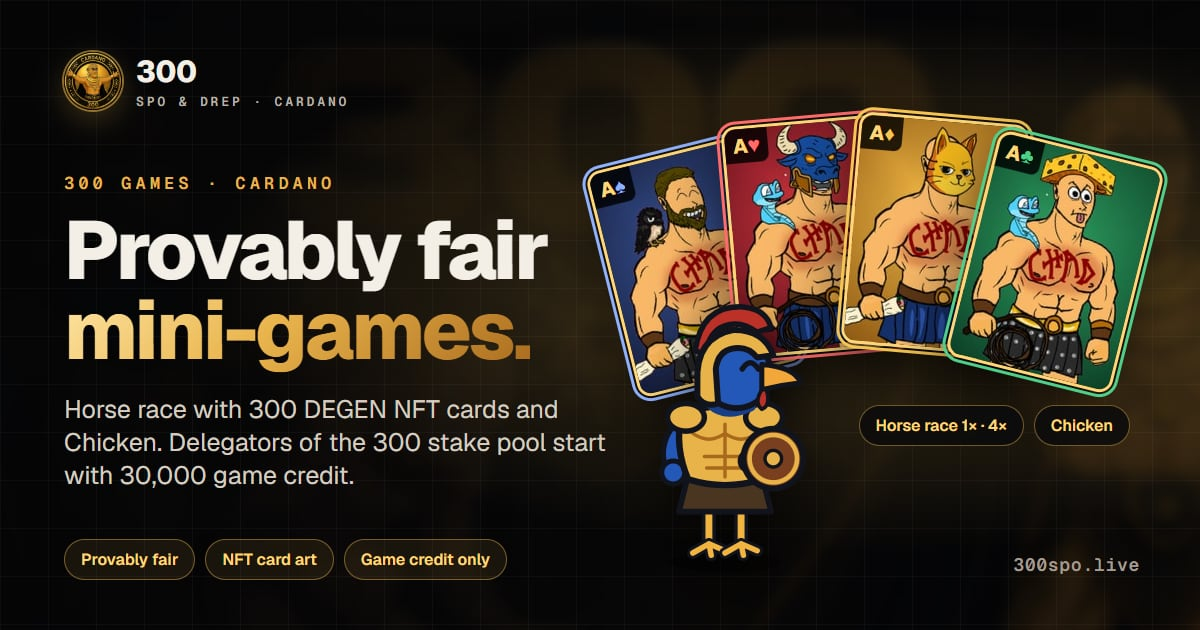
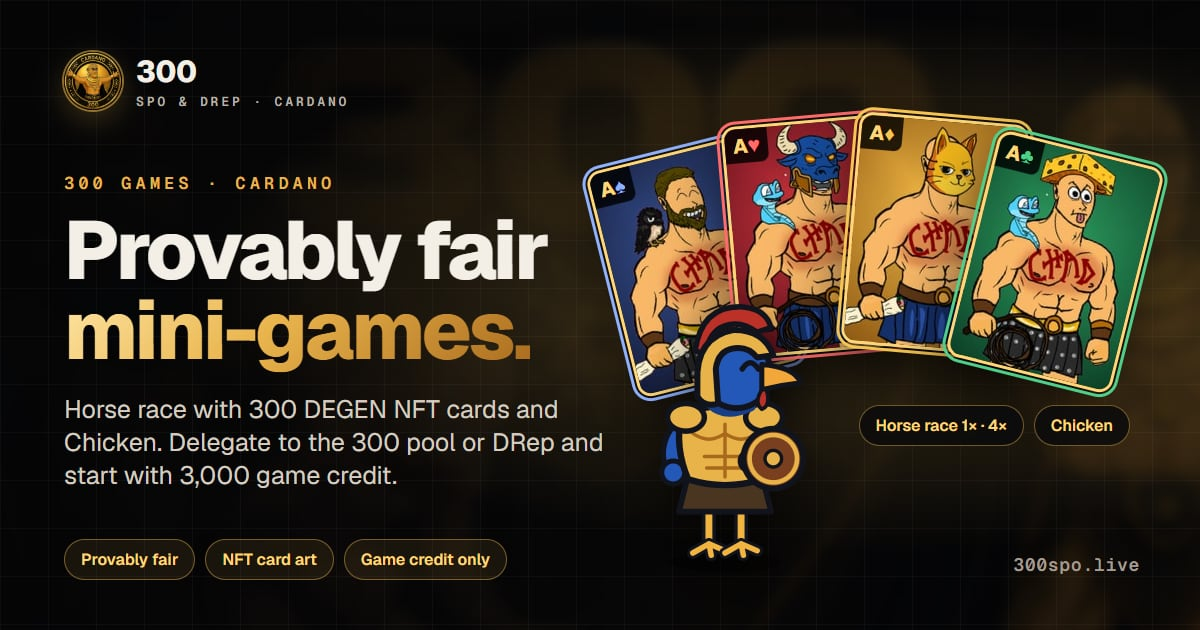
Starting credit 3,000 for pool or DRep delegators, no minimum, claim log (#31)
- 3,000 300 for every wallet delegated to the 300 stake pool and/or the
  300 DRep, without an ADA minimum (migration 20260930150000, applied).
  Wallets that got more before keep it.
- Every claim is logged with its outcome (credited, already has it, not
  delegated, below minimum); the admin page lists the last 30, so it is
  visible why a wallet got nothing.
- Landing page: a wallet that is not delegated yet is asked again after it
  delegates from the page (every 20 s for up to 10 minutes); only a settled
  answer is remembered for the session.
- Texts, search description and preview images name 3,000 and the DRep.

Changed region(s): [[0.0308, 0.6635, 0.5242, 0.7841]]

diff --git a/components/welcome-credit.tsx b/components/welcome-credit.tsx
@@ -1,19 +1,25 @@
 "use client";
 
 import { AnimatePresence, motion } from "motion/react";
-import { useEffect, useRef, useState } from "react";
+import { useCallback, useEffect, useRef, useState } from "react";
 import { formatTokenAmount } from "@/lib/format";
 import { LINKS } from "@/lib/site";
 import { WinBurst } from "./game/arena-effects";
 import { ArrowRight, Close } from "./icons";
+import { DELEGATED_EVENT } from "./wallet/delegation";
 import { useWallet } from "./wallet/wallet-provider";
 
 type Claim = { status: "granted"; amount: number; total: number } | { status: string };
 
+/** After a delegation, the credit is asked for this often until it lands (the delegation needs a block first). */
+const RECHECK_MS = 20_000;
+const RECHECKS = 30;
+
 /**
  * On the landing page: as soon as a wallet connects, its starting credit is
- * booked if it delegates to 300, and the credit is celebrated like a win. Asked
- * once per stake address and browser session; the server books it only once.
+ * booked if it delegates to 300, and the credit is celebrated like a win. A
+ * wallet that already has it is not asked again in this browser session; one
+ * that does not delegate yet is asked again after it delegates here.
  */
 export function WelcomeCredit() {
   const { status, wallet } = useWallet();
@@ -21,28 +27,54 @@ export function WelcomeCredit() {
   const [credit, setCredit] = useState<{ amount: number; total: number; stage: "burst" | "card" } | null>(null);
   const asked = useRef<string | null>(null);
 
-  useEffect(() => {
-    if (!stake || asked.current === stake) return;
-    asked.current = stake;
-    const key = `300spo:welcome:${stake}`;
+  // Asks once; true when there is nothing more to wait for (credited now or before).
+  const claim = useCallback(async (address: string) => {
+    const key = `300spo:welcome:${address}`;
     try {
-      if (sessionStorage.getItem(key)) return;
+      if (sessionStorage.getItem(key)) return true;
     } catch {
       // No session storage: ask anyway, the server books the credit once.
     }
-    fetch("/api/welcome", { method: "POST", headers: { "content-type": "application/json" }, body: JSON.stringify({ wallet: stake }) })
+    const result = await fetch("/api/welcome", { method: "POST", headers: { "content-type": "application/json" }, body: JSON.stringify({ wallet: address }) })
       .then((response) => (response.ok ? (response.json() as Promise<Claim>) : null))
-      .then((result) => {
-        if (!result) return;
-        try {
-          sessionStorage.setItem(key, result.status);
-        } catch {
-          // Only saves a second request.
-        }
-        if (result.status === "granted" && "amount" in result) setCredit({ amount: result.amount, total: result.total ?? result.amount, stage: "burst" });
-      })
-      .catch(() => undefined);
-  }, [stake]);
+      .catch(() => null);
+    const settled = result?.status === "granted" || result?.status === "claimed";
+    if (settled) {
+      try {
+        sessionStorage.setItem(key, result.status);
+      } catch {
+        // Only saves a second request.
+      }
+    }
+    if (result?.status === "granted" && "amount" in result) setCredit({ amount: result.amount, total: result.total ?? result.amount, stage: "burst" });
+    return settled;
+  }, []);
+
+  useEffect(() => {
+    if (!stake || asked.current === stake) return;
+    asked.current = stake;
+    void claim(stake);
+  }, [stake, claim]);
+
+  // A delegation from this page: keep asking until the chain shows it and the credit is booked.
+  useEffect(() => {
+    if (!stake) return;
+    let timer: number | undefined;
+    const onDelegated = (event: Event) => {
+      if ((event as CustomEvent<string | null>).detail !== stake) return;
+      window.clearInterval(timer);
+      let checks = 0;
+      timer = window.setInterval(async () => {
+        checks += 1;
+        if ((await claim(stake)) || checks >= RECHECKS) window.clearInterval(timer);
+      }, RECHECK_MS);
+    };
+    window.addEventListener(DELEGATED_EVENT, onDelegated);
+    return () => {
+      window.removeEventListener(DELEGATED_EVENT, onDelegated);
+      window.clearInterval(timer);
+    };
+  }, [stake, claim]);
 
   useEffect(() => {
     if (credit?.stage !== "card") return;

diff --git a/components/wallet/delegation.tsx b/components/wallet/delegation.tsx
@@ -11,6 +11,9 @@ import { ArrowUpRight, Check, Spinner } from "../icons";
 import { Modal } from "../modal";
 import { useWallet } from "./wallet-provider";
 
+/** Sent on window when a delegation transaction was submitted (detail: the stake address). */
+export const DELEGATED_EVENT = "300spo:delegated";
+
 /** "both" preselects the stake pool and the DRep; the wallet can untick either. */
 export type DelegationTarget = "pool" | "drep" | "both";
 /** Starting credit: `poolAmount` for delegating to the stake pool, `amount` for the DRep alone. */
@@ -152,6 +155,7 @@ function DelegationBody({
       stage = "submit";
       const txHash = await api.submitTx(bytesToHex(assembleSignedTx(built.body, witnesses)));
       setPhase({ name: "submitted", txHash });
+      window.dispatchEvent(new CustomEvent(DELEGATED_EVENT, { detail: stakeAddress }));
       void refreshBalance();
     } catch (error) {
       setPhase({ name: "error", message: transactionErrorMessage(error, stage) });
@@ -204,9 +208,11 @@ function DelegationBody({
       <p className="text-muted">Your ADA never leaves your wallet. You sign one transaction; the network fee is about 0.2 ADA.</p>
       {offer && (
         <StartingCredit amount={credit}>
-          {selection.pool || !selection.drep
-            ? "For delegating to the 300 stake pool — once per wallet, to play 300 Games."
-            : `For delegating to the 300 DRep — once per wallet, to play 300 Games. With the stake pool it is ${formatTokenAmount(BigInt(offer.poolAmount ?? offer.amount))}.`}
+          {(offer.poolAmount ?? offer.amount) === offer.amount
+            ? "For delegating to the 300 stake pool, the 300 DRep or both — once per wallet, to play 300 Games."
+            : selection.pool || !selection.drep
+              ? "For delegating to the 300 stake pool — once per wallet, to play 300 Games."
+              : `For delegating to the 300 DRep — once per wallet, to play 300 Games. With the stake pool it is ${formatTokenAmount(BigInt(offer.poolAmount ?? offer.amount))}.`}
         </StartingCredit>
       )}
       <div className="space-y-2">

diff --git a/public/admin/admin.js b/public/admin/admin.js
@@ -56,6 +56,36 @@ const renderGame = (data) => {
     document.querySelector("#welcomePoolAmount").value = data.welcome.poolAmount;
     document.querySelector("#welcomeMinAda").value = Number(data.welcome.minLovelace) / 1e6;
     document.querySelector("#welcomeStats").textContent = ` Granted so far: ${formatAmount(data.welcome.granted)} wallets, ${formatAmount(data.welcome.total)} 300.`;
+    const reasons = {
+      granted: "credited",
+      claimed: "already has it",
+      not_delegated: "not delegated to 300",
+      not_eligible: "below the ADA minimum",
+      disabled: "starting credit switched off",
+    };
+    const attempts = data.welcome.attempts || [];
+    document.querySelector("#welcome-attempts").replaceChildren(
+      attempts.length
+        ? element(
+            "div",
+            { className: "game-list" },
+            attempts.map((attempt) =>
+              element("div", { className: "game-row" }, [
+                element("span", {}, [
+                  element("strong", { textContent: reasons[attempt.status] || attempt.status }),
+                  element("span", {
+                    className: "muted",
+                    textContent: ` · ${[attempt.pool && "pool", attempt.drep && "DRep"].filter(Boolean).join(" + ") || "no delegation"}${
+                      attempt.lovelace === null ? "" : ` · ${(Number(attempt.lovelace) / 1e6).toFixed(2)} ADA`
+                    } · ${attempt.attempts}× · ${new Date(attempt.last_at).toLocaleString()}`,
+                  }),
+                ]),
+                element("code", { textContent: shorten(attempt.wallet), title: attempt.wallet }),
+              ]),
+            ),
+          )
+        : element("p", { className: "hint", textContent: "No claims yet." }),
+    );
   }
 
   document.querySelector("#game-totals").replaceChildren(

diff --git a/lib/server/welcome.ts b/lib/server/welcome.ts
@@ -9,6 +9,7 @@ type AccountInfo = { status?: string; delegated_pool?: string | null; delegated_
  * pool (the pool amount) or only to the 300 DRep (the base amount). The chain
  * says whether and where it delegates and how much ADA it holds; the database
  * applies its minimum, books the credit once and tops up an earlier, smaller one.
+ * Every outcome is logged, so the admin page shows why a wallet got nothing.
  */
 export async function claimWelcome(wallet: string) {
   if (!wallet.startsWith("stake1")) return { status: "not_delegated" as const };
@@ -16,6 +17,8 @@ export async function claimWelcome(wallet: string) {
   const registered = info?.status === "registered";
   const pool = registered && isOurPool(info.delegated_pool);
   const drep = registered && isOurDrep(info.delegated_drep);
-  if (!pool && !drep) return { status: "not_delegated" as const };
-  return gameDb.claimWelcome(wallet, BigInt(info.total_balance ?? "0"), pool);
+  const lovelace = info?.total_balance ? BigInt(info.total_balance) : null;
+  const result = pool || drep ? await gameDb.claimWelcome(wallet, lovelace ?? 0n, pool) : { status: "not_delegated" as const };
+  await gameDb.logWelcomeAttempt(wallet, result.status, pool, drep, lovelace).catch((error: unknown) => console.error("[welcome] log", error));
+  return result;
 }

diff --git a/public/admin/index.html b/public/admin/index.html
@@ -84,7 +84,8 @@
         </form>
         <h2>Starting credit</h2>
         <p class="hint">
-          Wallets delegated to the 300 pool get this game credit once when they open /play. The ADA minimum is checked but not shown on the site.
+          Wallets delegated to the 300 pool or DRep get this game credit once, when they connect on the landing page or open /play. The ADA
+          minimum is checked but not shown on the site (0 = none).
           <span id="welcomeStats"></span>
         </p>
         <form id="game-welcome">
@@ -96,6 +97,9 @@
           </div>
           <div class="actions"><button type="submit">Save starting credit</button></div>
         </form>
+        <h3>Recent claims</h3>
+        <p class="hint">The last answer per wallet: why it got the credit or not.</p>
+        <div id="welcome-attempts"></div>
         <h2>Games</h2>
         <p class="hint">Payout is the multiple of the bet paid on a correct pick; 2× is fair for two outcomes. The horse race pays the exact odds of each dealt track.</p>
         <div id="game-games"></div>

diff --git a/lib/server/game-db.ts b/lib/server/game-db.ts
@@ -155,6 +155,8 @@ export const gameDb = {
   chickenCollect: (wallet: string, round: number) => one<ChickenRound>(db()`select game.chicken_collect(${wallet}, ${round}::bigint) as result`),
   claimWelcome: (wallet: string, lovelace: bigint, pool: boolean) =>
     one<WelcomeClaim>(db()`select game.claim_welcome(${wallet}, ${lovelace.toString()}::bigint, ${pool}::boolean) as result`),
+  logWelcomeAttempt: (wallet: string, status: string, pool: boolean, drep: boolean, lovelace: bigint | null) =>
+    db()`select game.log_welcome_attempt(${wallet}, ${status}, ${pool}::boolean, ${drep}::boolean, ${lovelace === null ? null : lovelace.toString()}::bigint)`,
   fairness: (wallet: string) => one<Fairness>(db()`select game.fairness(${wallet}) as result`),
   rotateSeed: (wallet: string, clientSeed: string | null) => one<Fairness>(db()`select game.rotate_seed(${wallet}, ${clientSeed}) as result`),
   adminOverview: () => one<Record<string, unknown>>(db()`select game.admin_overview() as result`),

diff --git a/components/game/game-page.tsx b/components/game/game-page.tsx
@@ -293,8 +293,8 @@ export function GamePage() {
                   <span className="mt-2 block">Every round is provably fair: the server seed is committed before you play and can be revealed.</span>
                   {state?.welcome?.enabled && (
                     <span className="mt-2 block">
-                      Wallets delegated to the 300 stake pool get {formatTokenAmount(BigInt(state.welcome.poolAmount ?? state.welcome.amount))} 300
-                      starting credit once.
+                      Wallets delegated to the 300 stake pool or the 300 DRep get{" "}
+                      {formatTokenAmount(BigInt(state.welcome.poolAmount ?? state.welcome.amount))} 300 starting credit once.
                     </span>
                   )}
                 </InfoBubble>

diff --git a/lib/seo.ts b/lib/seo.ts
@@ -40,7 +40,7 @@ export const PAGES = {
     path: "/play/",
     title: "300 Games · Provably Fair Cardano Mini-Games",
     description:
-      "Play provably fair mini-games on Cardano: a horse race with 300 DEGEN NFT cards and Chicken. Delegate to the 300 stake pool and start with 30,000 game credit.",
+      "Play provably fair mini-games on Cardano: a horse race with 300 DEGEN NFT cards and Chicken. Delegate to the 300 stake pool or DRep and start with 3,000 game credit.",
     image: "/og/games.jpg",
     imageAlt: "300 Games – provably fair Cardano mini-games with NFT card art",
     keywords: [
